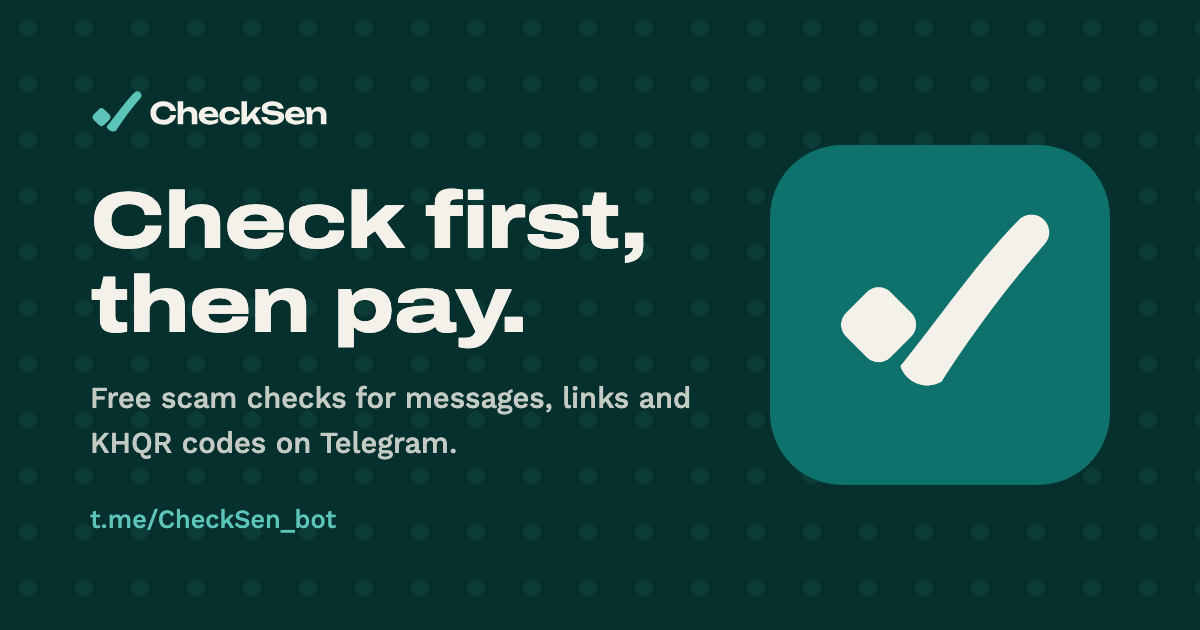
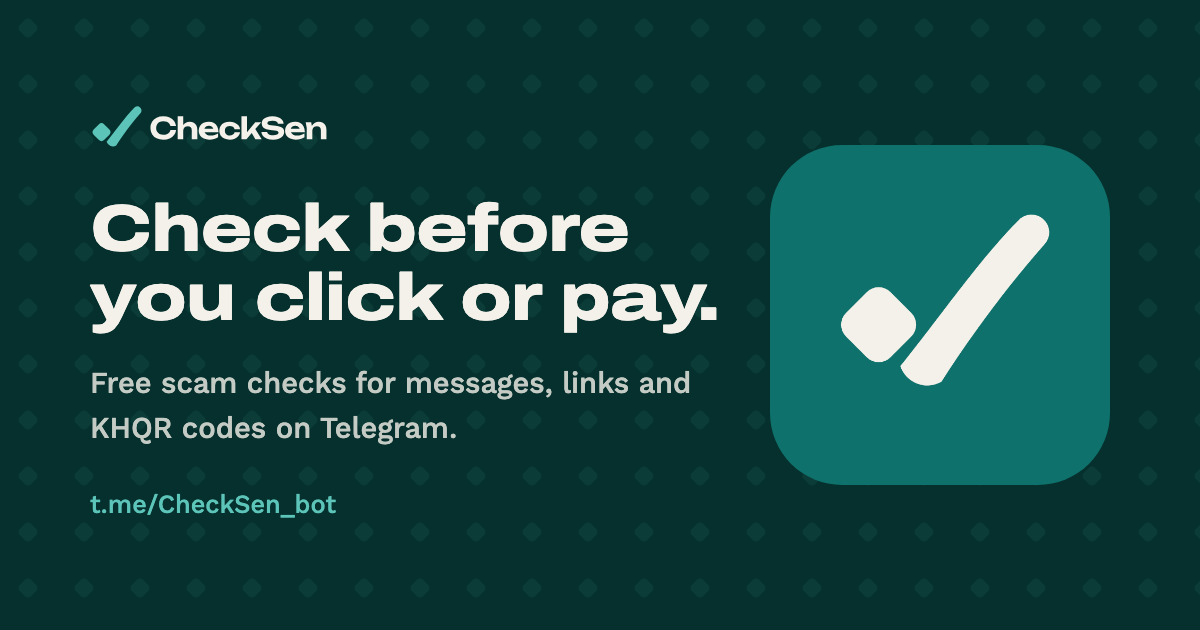
Change the slogan to ឆែកសិន មុនចុច មុនបង់

Changed region(s): [[0.0617, 0.3016, 0.6167, 0.7238], [0.0617, 0.1508, 0.2775, 0.2413], [0.0617, 0.7841, 0.2775, 0.8444]]

diff --git a/web/index.html b/web/index.html
@@ -15,12 +15,12 @@
   <meta property="og:url" content="https://checksen.horizxon.tech/">
   <meta property="og:locale" content="km_KH">
   <meta property="og:locale:alternate" content="en_US">
-  <meta property="og:title" content="CheckSen ឆែកសិន: ឆែកសិន មុនបង់ប្រាក់">
+  <meta property="og:title" content="CheckSen ឆែកសិន: ឆែកសិន មុនចុច មុនបង់">
   <meta property="og:description" content="មិនប្រាកដថាសារ តំណ ឬកូដ KHQR ជាការបោកប្រាស់ឬអត់? ផ្ញើទៅ CheckSen ក្នុង Telegram។ វាប្រាប់កម្រិតហានិភ័យ និងមូលហេតុ ជាភាសាខ្មែរ ក្នុងរយៈពេលប៉ុន្មានវិនាទី។ ឥតគិតថ្លៃ មិនបាច់ដំឡើងកម្មវិធី។">
   <meta property="og:image" content="https://checksen.horizxon.tech/assets/og-km.png">
   <meta property="og:image:width" content="1200">
   <meta property="og:image:height" content="630">
-  <meta property="og:image:alt" content="CheckSen ឆែកសិន មុនបង់ប្រាក់">
+  <meta property="og:image:alt" content="CheckSen ឆែកសិន មុនចុច មុនបង់">
   <meta name="twitter:card" content="summary_large_image">
   <script type="application/ld+json">{"@context": "https://schema.org", "@graph": [{"@type": "WebSite", "@id": "https://checksen.horizxon.tech/#website", "url": "https://checksen.horizxon.tech/", "name": "CheckSen", "alternateName": ["ឆែកសិន", "CheckSen ឆែកសិន"], "inLanguage": ["km", "en"]}, {"@type": "WebApplication", "name": "CheckSen", "alternateName": "ឆែកសិន", "url": "https://t.me/CheckSen_bot", "description": "Telegram bot ឥតគិតថ្លៃ ដែលពិនិត្យសារ តំណ កូដ KHQR និងរូបថតអេក្រង់ រកសញ្ញាបោកប្រាស់ ហើយឆ្លើយជាភាសាខ្មែរ។", "applicationCategory": "SecurityApplication", "operatingSystem": "Telegram", "inLanguage": "km", "isAccessibleForFree": true, "image": "https://checksen.horizxon.tech/assets/icon-512.png", "offers": {"@type": "Offer", "price": "0", "priceCurrency": "USD"}, "sameAs": ["https://github.com/tangheng05/checksen"]}, {"@type": "FAQPage", "inLanguage": "km", "mainEntity": [{"@type": "Question", "name": "តើធ្វើដូចម្តេចដើម្បីដឹងថា KHQR ពិត ឬត្រូវគេកែ?", "acceptedAnswer": {"@type": "Answer", "text": "ផ្ញើរូបថត QR ទៅ CheckSen។ វាបង្ហាញឈ្មោះអ្នកទទួល គណនី ធនាគារ និងចំនួនទឹកប្រាក់ពិតប្រាកដ ហើយពិនិត្យលេខផ្ទៀងផ្ទាត់របស់កូដ។ មុនបង់ប្រាក់ សូមពិនិត្យឈ្មោះអ្នកទទួលក្នុងកម្មវិធីធនាគាររបស់អ្នកជានិច្ច។"}}, {"@type": "Question", "name": "ធនាគារសុំលេខកូដ OTP តាមទូរស័ព្ទ ឬ Telegram ដែរឬទេ?", "acceptedAnswer": {"@type": "Answer", "text": "ទេ។ ធនាគារ និងក្រុមហ៊ុនពិតៗ មិនដែលសុំលេខកូដ OTP លេខ PIN ឬលេខសម្ងាត់របស់អ្នកទេ។ អ្នកណាសុំលេខទាំងនេះ ទំនងជាអ្នកបោកប្រាស់។"}}, {"@type": "Question", "name": "CheckSen ឥតគិតថ្លៃទេ? ត្រូវដំឡើងកម្មវិធីទេ?", "acceptedAnswer": {"@type": "Answer", "text": "ឥតគិតថ្លៃ ហើយមិនបាច់ដំឡើងអ្វីទេ។ គ្រាន់តែបើក @CheckSen_bot ក្នុង Telegram ហើយផ្ញើសារ តំណ ឬរូបភាពទៅ។"}}, {"@type": "Question", "name": "ខ្ញុំបានបង់ប្រាក់ទៅអ្នកបោកប្រាស់រួចហើយ ត្រូវធ្វើអ្វី?", "acceptedAnswer": {"@type": "Answer", "text": "ទូរស័ព្ទទៅធនាគាររបស់អ្នកភ្លាមៗ តាមលេខនៅលើកាត ឬក្នុងកម្មវិធីធនាគារ ហើយសុំឱ្យគេបញ្ឈប់ការផ្ទេរប្រាក់។ រក្សាទុករូបថតអេក្រង់សារ និងបង្កាន់ដៃបង់ប្រាក់ ហើយរាយការណ៍ទៅប៉ូលិស។ កុំបង់ប្រាក់ឱ្យអ្នកណាដែលសន្យាថានឹងយកលុយមកវិញឱ្យ ដោយគិតថ្លៃ។"}}, {"@type": "Question", "name": "CheckSen អាចប្រាប់ថាសារមួយគ្មានបញ្ហាបានទេ?", "acceptedAnswer": {"@type": "Answer", "text": "ទេ។ វាប្រាប់បានតែថា រកឃើញសញ្ញាបោកប្រាស់ដែលគេស្គាល់ ឬអត់។ ល្បិចថ្មីៗអាចមិនទាន់ចាប់បាន ដូច្នេះបើមិនប្រាកដ សូមផ្ទៀងផ្ទាត់តាមលេខ ឬកម្មវិធីផ្លូវការរបស់ធនាគារ។"}}]}]}</script>
   <link rel="icon" href="/assets/favicon.ico" sizes="any">
@@ -44,7 +44,7 @@
   <main>
     <section class="wrap hero">
       <div>
-        <h1>ឆែកសិន<br>មុនបង់ប្រាក់</h1>
+        <h1>ឆែកសិន<br>មុនចុច មុនបង់</h1>
         <p class="lede">ផ្ញើសារ តំណ កូដ KHQR រូបថតអេក្រង់ ឬឯកសារ ដែលអ្នកសង្ស័យថាជាការបោកប្រាស់ ទៅ CheckSen ក្នុង Telegram មុនពេលចុច បើក ឬបង់ប្រាក់។ ក្នុងរយៈពេលប៉ុន្មានវិនាទី វាប្រាប់កម្រិតហានិភ័យ និងមូលហេតុ ជាភាសាខ្មែរ។ ឥតគិតថ្លៃ។</p>
         <div class="cta-row">
           <a class="cta" href="https://t.me/CheckSen_bot">

diff --git a/web/en/index.html b/web/en/index.html
@@ -15,12 +15,12 @@
   <meta property="og:url" content="https://checksen.horizxon.tech/en">
   <meta property="og:locale" content="en_US">
   <meta property="og:locale:alternate" content="km_KH">
-  <meta property="og:title" content="CheckSen: check first, then pay">
+  <meta property="og:title" content="CheckSen: check before you click or pay">
   <meta property="og:description" content="Not sure if a message, link or KHQR code is a scam? Forward it to CheckSen on Telegram. It replies in Khmer with a risk level and the reasons, in seconds. Free, nothing to install.">
   <meta property="og:image" content="https://checksen.horizxon.tech/assets/og-en.png">
   <meta property="og:image:width" content="1200">
   <meta property="og:image:height" content="630">
-  <meta property="og:image:alt" content="CheckSen: check first, then pay">
+  <meta property="og:image:alt" content="CheckSen: check before you click or pay">
   <meta name="twitter:card" content="summary_large_image">
   <script type="application/ld+json">{"@context": "https://schema.org", "@graph": [{"@type": "WebSite", "@id": "https://checksen.horizxon.tech/#website", "url": "https://checksen.horizxon.tech/", "name": "CheckSen", "alternateName": ["ឆែកសិន", "CheckSen ឆែកសិន"], "inLanguage": ["km", "en"]}, {"@type": "WebApplication", "name": "CheckSen", "alternateName": "ឆែកសិន", "url": "https://t.me/CheckSen_bot", "description": "A free Telegram bot that checks messages, links, KHQR codes and screenshots for scam signs and replies in Khmer.", "applicationCategory": "SecurityApplication", "operatingSystem": "Telegram", "inLanguage": "km", "isAccessibleForFree": true, "image": "https://checksen.horizxon.tech/assets/icon-512.png", "offers": {"@type": "Offer", "price": "0", "priceCurrency": "USD"}, "sameAs": ["https://github.com/tangheng05/checksen"]}, {"@type": "FAQPage", "inLanguage": "en", "mainEntity": [{"@type": "Question", "name": "How can I tell if a KHQR code is real or edited?", "acceptedAnswer": {"@type": "Answer", "text": "Send a photo of the QR to CheckSen. It shows the real recipient name, account, bank and amount, and checks the code's check digits. Before paying, always check the recipient's name in your own bank app."}}, {"@type": "Question", "name": "Do banks ever ask for my OTP code by phone or Telegram?", "acceptedAnswer": {"@type": "Answer", "text": "No. Real banks and companies never ask for your OTP code, PIN or password. Anyone who asks for them is most likely a scammer."}}, {"@type": "Question", "name": "Is CheckSen free? Do I need to install an app?", "acceptedAnswer": {"@type": "Answer", "text": "It's free and there's nothing to install. Open @CheckSen_bot in Telegram and send it a message, link or photo."}}, {"@type": "Question", "name": "I already paid a scammer. What should I do?", "acceptedAnswer": {"@type": "Answer", "text": "Call your bank right away on the number on your card or in its app, and ask them to stop the transfer. Keep screenshots of the messages and the payment receipt, and report it to the police. Don't pay anyone who promises to get your money back for a fee."}}, {"@type": "Question", "name": "Can CheckSen tell me a message is safe?", "acceptedAnswer": {"@type": "Answer", "text": "No. It can only say whether it found known scam signs. A new trick may not be caught yet, so when in doubt, check through your bank's official number or app."}}]}]}</script>
   <link rel="icon" href="/assets/favicon.ico" sizes="any">
@@ -44,7 +44,7 @@
   <main>
     <section class="wrap hero">
       <div>
-        <h1>Check first,<br>then pay.</h1>
+        <h1>Check before<br>you click<br>or pay.</h1>
         <p class="lede">A free scam checker for Cambodia. Before you click, open or pay, forward the message, link, KHQR code, screenshot or file to CheckSen on Telegram, and within seconds it replies in Khmer with a risk level and the reasons.</p>
         <div class="cta-row">
           <a class="cta" href="https://t.me/CheckSen_bot">

diff --git a/web/styles.css b/web/styles.css
@@ -168,6 +168,12 @@ h1:lang(km) {
   line-height: 1.45;
 }
 
+@media (max-width: 40rem) {
+  h1:lang(en) {
+    font-size: 2.4rem;
+  }
+}
+
 h2 {
   font-size: clamp(1.75rem, 4vw, 2.25rem);
   line-height: 1.25;

diff --git a/README.md b/README.md
@@ -1,4 +1,4 @@
-<a href="https://checksen.horizxon.tech"><img src="docs/images/banner.png" alt="CheckSen ឆែកសិន: check first, then pay" width="100%"></a>
+<a href="https://checksen.horizxon.tech"><img src="docs/images/banner.png" alt="CheckSen ឆែកសិន: check before you click or pay" width="100%"></a>
 
 <p align="center">
   <a href="https://t.me/CheckSen_bot"><img src="https://img.shields.io/badge/Telegram-@CheckSen__bot-0E716B?logo=telegram&logoColor=white" alt="Open in Telegram"></a>
